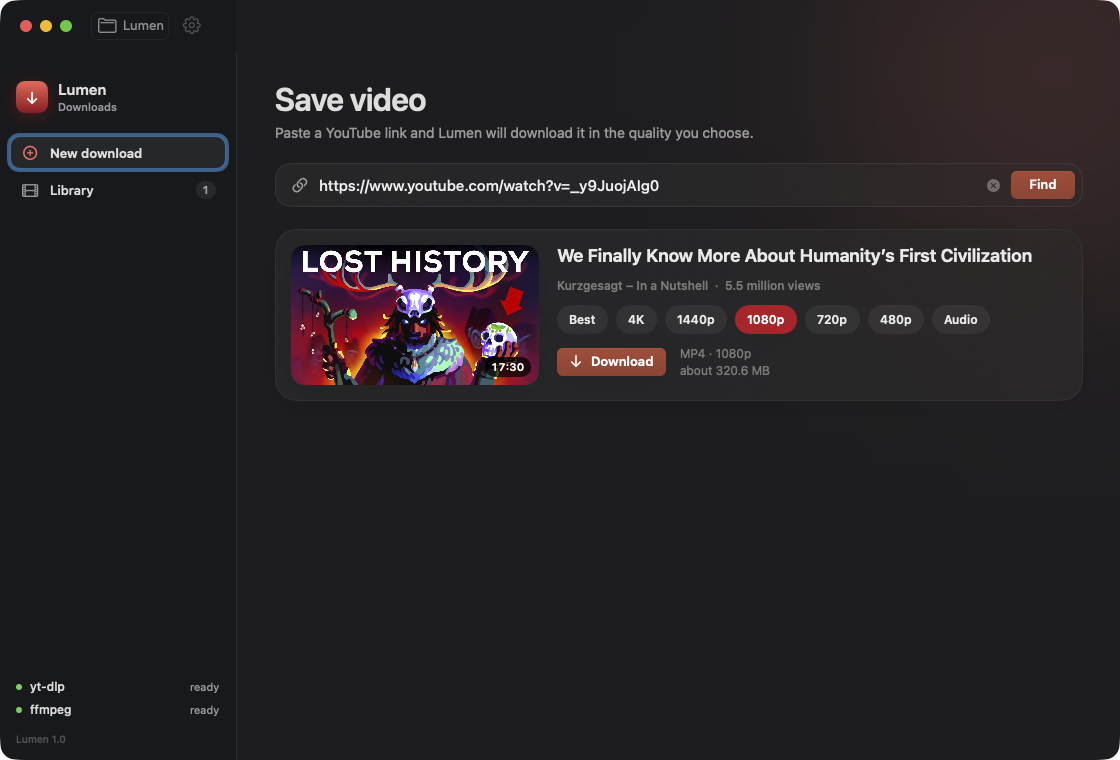
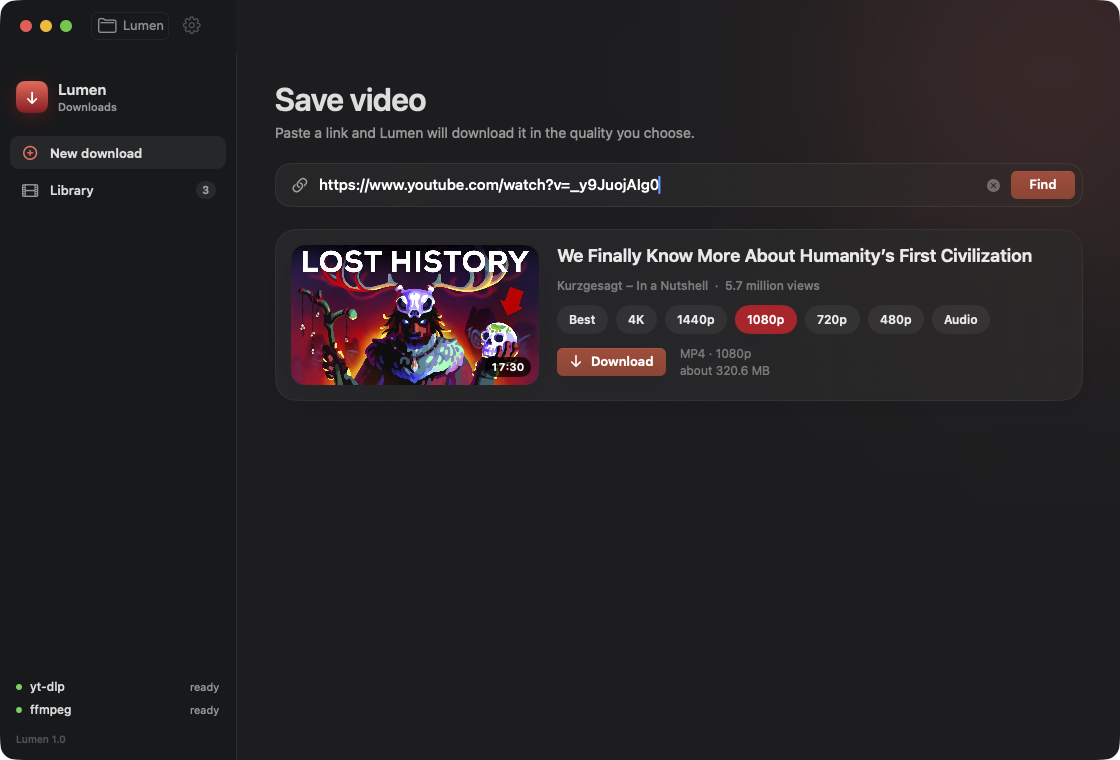
added more platforms for downloads

diff --git a/Tests/LumenCoreTests/CoreTests.swift b/Tests/LumenCoreTests/CoreTests.swift
@@ -3,13 +3,18 @@ import Testing
 @testable import LumenCore
 
 @Test func acceptsWatchShortsAndShareText() {
-    #expect(YouTubeLink.parse("https://www.youtube.com/watch?v=dQw4w9WgXcQ") != nil)
-    #expect(YouTubeLink.parse("https://youtu.be/dQw4w9WgXcQ") != nil)
-    #expect(YouTubeLink.parse("https://www.youtube.com/shorts/abcdefghijk") != nil)
-    #expect(YouTubeLink.parse("смотри https://youtu.be/abcdefghijk, пожалуйста") != nil)
-    #expect(YouTubeLink.parse("https://vimeo.com/123") == nil)
-    #expect(YouTubeLink.parse("https://www.youtube.com/feed/subscriptions") == nil)
-    #expect(YouTubeLink.parse("просто текст") == nil)
+    #expect(MediaLink.parse("https://www.youtube.com/watch?v=dQw4w9WgXcQ") != nil)
+    #expect(MediaLink.parse("https://youtu.be/dQw4w9WgXcQ") != nil)
+    #expect(MediaLink.parse("https://www.youtube.com/shorts/abcdefghijk") != nil)
+    #expect(MediaLink.parse("смотри https://youtu.be/abcdefghijk, пожалуйста") != nil)
+    #expect(MediaLink.parse("https://www.youtube.com/watch?v=dQw4w9WgXcQ&list=PLxxxx") != nil)
+    #expect(MediaLink.parse("https://vimeo.com/123") != nil)
+    #expect(MediaLink.parse("vimeo.com/123") != nil)
+    #expect(MediaLink.parse("смотри https://soundcloud.com/artist/track, пожалуйста") != nil)
+    #expect(MediaLink.parse("https://www.youtube.com/feed/subscriptions") == nil)
+    #expect(MediaLink.parse("https://www.youtube.com/playlist?list=PLxxxx") == nil)
+    #expect(MediaLink.parse("https://vimeo.com") == nil)
+    #expect(MediaLink.parse("просто текст") == nil)
 }
 
 @Test func parsesProgressAndFinalPath() {
@@ -47,10 +52,24 @@ import Testing
             StreamFormat(height: nil, vcodec: "none", acodec: "mp4a.40.2", ext: "m4a", size: 300_000, tbr: 128)
         ]
     )
-    #expect(details.qualities(hasFFmpeg: true) == [.best, .p1080, .p720, .p480, .audio])
+    #expect(details.qualities(hasFFmpeg: true) == [.best, .p1080, .p720, .audio])
     #expect(details.qualities(hasFFmpeg: false) == [.best, .audio])
     #expect(details.estimate(for: .p1080) == 5_300_000)
     #expect(details.estimate(for: .audio) == 300_000)
+
+    let fourK = VideoDetails(
+        id: "abc",
+        title: "4K",
+        channel: nil,
+        thumbnail: nil,
+        duration: nil,
+        viewCount: nil,
+        formats: [
+            StreamFormat(height: 2160, vcodec: "av01", acodec: "none", ext: "mp4", size: nil, tbr: nil),
+            StreamFormat(height: 360, vcodec: "avc1", acodec: "none", ext: "mp4", size: nil, tbr: nil)
+        ]
+    )
+    #expect(fourK.qualities(hasFFmpeg: true) == [.best, .p2160, .audio])
 }
 
 @Test func asksForTheSelectedResolution() {
@@ -60,7 +79,10 @@ import Testing
 
     let fullHD = FormatSelection.arguments(for: .p1080, hasFFmpeg: true).joined(separator: " ")
     #expect(fullHD.contains("bv*[height<=1080][height>=1040][vcodec^=avc1]"))
+    #expect(fullHD.contains("b[height<=1080][height>=1040]"))
     #expect(!fullHD.contains("height<=2160"))
+    let selector = FormatSelection.arguments(for: .p1080, hasFFmpeg: true)[1]
+    #expect(selector.split(separator: "/").last != "b")
 
     #expect(FormatSelection.outputName(for: .p2160).contains("%(height)sp"))
     #expect(FormatSelection.outputName(for: .p1080) != FormatSelection.outputName(for: .audio))

diff --git a/Sources/LumenCore/MediaLink.swift b/Sources/LumenCore/MediaLink.swift
@@ -1,22 +1,40 @@
 import Foundation
 
-public enum YouTubeLink {
+public enum MediaLink {
     public static func parse(_ raw: String) -> URL? {
         let trimmed = raw.trimmingCharacters(in: .whitespacesAndNewlines)
         guard !trimmed.isEmpty else { return nil }
 
         let candidate = extract(from: trimmed)
         guard let components = URLComponents(string: candidate),
-              let host = components.host?.lowercased() else {
+              let scheme = components.scheme?.lowercased(),
+              scheme == "http" || scheme == "https",
+              let host = components.host?.lowercased(),
+              host.contains(".") else {
             return nil
         }
 
-        let hostOK = host == "youtu.be"
+        if isYouTube(host) {
+            return youtubeVideo(components, host: host)
+        }
+
+        let path = components.path
+        let query = components.query ?? ""
+        guard path.count > 1 || !query.isEmpty else { return nil }
+        return components.url
+    }
+
+    private static func isYouTube(_ host: String) -> Bool {
+        host == "youtu.be"
+            || host.hasSuffix(".youtu.be")
             || host == "youtube.com"
             || host.hasSuffix(".youtube.com")
             || host.hasSuffix(".youtube-nocookie.com")
-        guard hostOK else { return nil }
+    }
 
+    /// A YouTube playlist or channel page is not one video. Other sites are left to yt-dlp,
+    /// which is always called with `--no-playlist`.
+    private static func youtubeVideo(_ components: URLComponents, host: String) -> URL? {
         if host == "youtu.be" || host.hasSuffix(".youtu.be") {
             let id = components.path.trimmingCharacters(in: CharacterSet(charactersIn: "/"))
             guard !id.isEmpty, id != "playlist" else { return nil }
@@ -30,8 +48,8 @@ public enum YouTubeLink {
             || path.contains("/live/")
             || path.contains("/embed/")
             || path.contains("/v/")
-        guard hasVideo, let url = components.url else { return nil }
-        return url
+        guard hasVideo else { return nil }
+        return components.url
     }
 
     private static func extract(from raw: String) -> String {
@@ -39,8 +57,8 @@ public enum YouTubeLink {
         let slice: String
         if let match = raw.firstMatch(of: pattern) {
             slice = String(match.output)
-        } else if raw.contains("youtube.com") || raw.contains("youtu.be") {
-            slice = raw.hasPrefix("http") ? raw : "https://\(raw)"
+        } else if !raw.contains(where: \.isWhitespace), raw.contains(".") {
+            slice = raw.hasPrefix("http://") || raw.hasPrefix("https://") ? raw : "https://\(raw)"
         } else {
             slice = raw
         }

diff --git a/Sources/LumenCore/Models.swift b/Sources/LumenCore/Models.swift
@@ -21,6 +21,19 @@ public enum Quality: String, CaseIterable, Identifiable, Hashable, Codable, Send
         case .p480: 480
         }
     }
+
+    /// Maps a real stream height onto one of the buttons. Heights the app has no button for,
+    /// such as 360p, stay on Best.
+    public static func tier(matching height: Int) -> Quality? {
+        switch height {
+        case 2000...: .p2160
+        case 1400..<2000: .p1440
+        case 1000..<1400: .p1080
+        case 700..<1000: .p720
+        case 400..<700: .p480
+        default: nil
+        }
+    }
 }
 
 public struct StreamFormat: Equatable, Sendable {
@@ -86,16 +99,12 @@ public struct VideoDetails: Equatable, Sendable {
     public func qualities(hasFFmpeg: Bool) -> [Quality] {
         var list: [Quality] = [.best]
         if hasFFmpeg {
-            let maxHeight = maxVideoHeight
-            if maxHeight == 0 {
-                list.append(contentsOf: [.p1080, .p720])
-            } else {
-                for tier in [Quality.p2160, .p1440, .p1080, .p720, .p480] {
-                    guard let ceiling = tier.ceiling else { continue }
-                    if maxHeight >= ceiling - 20 {
-                        list.append(tier)
-                    }
-                }
+            let present = Set(formats.compactMap { format -> Quality? in
+                guard format.isVideo, let height = format.height else { return nil }
+                return Quality.tier(matching: height)
+            })
+            for tier in [Quality.p2160, .p1440, .p1080, .p720, .p480] where present.contains(tier) {
+                list.append(tier)
             }
         }
         list.append(.audio)
@@ -205,6 +214,7 @@ enum FormatSelection {
             let height = quality.ceiling ?? 1080
             let floor = max(height - 40, 1)
             let tier = "bv*[height<=\(height)][height>=\(floor)]"
+            let single = "b[height<=\(height)][height>=\(floor)]"
             return [
                 "\(tier)[vcodec^=avc1]+ba[acodec^=mp4a]",
                 "\(tier)[vcodec^=avc1]+ba",
@@ -213,9 +223,9 @@ enum FormatSelection {
                 "\(tier)[vcodec^=vp09]+ba[acodec^=mp4a]",
                 "\(tier)[vcodec^=vp9]+ba[acodec^=mp4a]",
                 "\(tier)+ba",
+                single,
                 "bv*[height<=\(height)]+ba",
-                "b[height<=\(height)]",
-                "b"
+                "b[height<=\(height)]"
             ].joined(separator: "/")
         }
     }

diff --git a/Sources/LumenCore/Interpret.swift b/Sources/LumenCore/Interpret.swift
@@ -64,7 +64,7 @@ public func humanize(log: [String]) -> String {
         return String(localized: "This is a private video — it can't be downloaded.")
     }
     if lower.contains("sign in") || lower.contains("confirm your age") || lower.contains("login required") {
-        return String(localized: "YouTube is asking you to sign in. This video can't be downloaded that way.")
+        return String(localized: "The site is asking you to sign in. This video can't be downloaded that way.")
     }
     if lower.contains("not available in your country") || (lower.contains("geo") && lower.contains("restricted")) {
         return String(localized: "This video isn't available in your region.")
@@ -82,10 +82,10 @@ public func humanize(log: [String]) -> String {
         return String(localized: "This link doesn't look like a video that can be downloaded.")
     }
     if lower.contains("429") || lower.contains("too many requests") {
-        return String(localized: "YouTube is limiting requests for now. Try again in a little while.")
+        return String(localized: "The site is limiting requests for now. Try again in a little while.")
     }
     if lower.contains("offline") || lower.contains("network is unreachable") || lower.contains("failed to establish a new connection") || lower.contains("connection reset") || lower.contains("operation not permitted") || lower.contains("timed out") || lower.contains("timeout") {
-        return String(localized: "No response from YouTube. If LuLu is on, it blocks the downloader and often shows no prompt. Allow this file in LuLu's rules.")
+        return String(localized: "No response from the site. If LuLu is on, it blocks the downloader and often shows no prompt. Allow this file in LuLu's rules.")
     }
     if let line = log.reversed().first(where: { $0.contains("ERROR:") }) {
         let cleaned = line.replacingOccurrences(of: "ERROR:", with: "").trimmingCharacters(in: .whitespaces)

diff --git a/Sources/Lumen/AppModel.swift b/Sources/Lumen/AppModel.swift
@@ -128,14 +128,14 @@ final class AppModel {
 
     func refreshPasteHint() {
         let text = NSPasteboard.general.string(forType: .string) ?? ""
-        pasteHint = YouTubeLink.parse(text) != nil && urlText.trimmingCharacters(in: .whitespacesAndNewlines).isEmpty
+        pasteHint = MediaLink.parse(text) != nil && urlText.trimmingCharacters(in: .whitespacesAndNewlines).isEmpty
     }
 
     func urlDidChange() {
         errorBanner = nil
         debounce?.cancel()
         refreshPasteHint()
-        guard YouTubeLink.parse(urlText) != nil else {
+        guard MediaLink.parse(urlText) != nil else {
             preview = nil
             return
         }
@@ -154,8 +154,8 @@ final class AppModel {
     }
 
     func acceptDrop(_ raw: String) {
-        guard YouTubeLink.parse(raw) != nil else {
-            errorBanner = String(localized: "This isn't a YouTube video link.")
+        guard MediaLink.parse(raw) != nil else {
+            errorBanner = String(localized: "This isn't a link to a video.")
             return
         }
         urlText = raw.trimmingCharacters(in: .whitespacesAndNewlines)
@@ -173,8 +173,8 @@ final class AppModel {
             errorBanner = String(localized: "Install the download tools first.")
             return
         }
-        guard let url = YouTubeLink.parse(urlText) else {
-            errorBanner = String(localized: "Paste a link to a specific YouTube video.")
+        guard let url = MediaLink.parse(urlText) else {
+            errorBanner = String(localized: "Paste a link to a specific video.")
             preview = nil
             return
         }

diff --git a/Sources/Lumen/Views/ComposeView.swift b/Sources/Lumen/Views/ComposeView.swift
@@ -15,7 +15,7 @@ struct ComposeView: View {
                     Text("Save video")
                         .font(.system(size: 32, weight: .semibold))
                         .tracking(-0.6)
-                    Text("Paste a YouTube link and Lumen will download it in the quality you choose.")
+                    Text("Paste a link and Lumen will download it in the quality you choose.")
                         .font(.system(size: 14))
                         .foregroundStyle(.secondary)
                 }
@@ -85,7 +85,7 @@ struct ComposeView: View {
                 .foregroundStyle(.secondary)
                 .symbolEffect(.pulse, isActive: model.isResolving)
 
-            TextField("https://www.youtube.com/watch?v=…", text: $model.urlText)
+            TextField("https://…", text: $model.urlText)
                 .textFieldStyle(.plain)
                 .font(.system(size: 15, weight: .medium))
                 .focused($linkFocused)
@@ -143,7 +143,7 @@ struct ComposeView: View {
             Image(systemName: "info.circle.fill")
                 .foregroundStyle(Theme.accent)
             VStack(alignment: .leading, spacing: 6) {
-                Text("Without ffmpeg you get one ready-made file, usually up to 720p. 1080p and 4K need ffmpeg.")
+                Text("Without ffmpeg you get one ready-made file. Separate video and audio, including 1080p and 4K, need ffmpeg.")
                     .font(.system(size: 12))
                     .foregroundStyle(.secondary)
                     .fixedSize(horizontal: false, vertical: true)

diff --git a/Sources/LumenCore/Engine.swift b/Sources/LumenCore/Engine.swift
@@ -123,11 +123,11 @@ public struct Engine: Sendable {
             }
             group.addTask {
                 try await Task.sleep(for: .seconds(40))
-                throw EngineFailure(message: String(localized: "No response from YouTube. If LuLu is on, it blocks the downloader and often shows no prompt. Allow this file in LuLu's rules."))
+                throw EngineFailure(message: String(localized: "No response from the site. If LuLu is on, it blocks the downloader and often shows no prompt. Allow this file in LuLu's rules."))
             }
             do {
                 guard let value = try await group.next() else {
-                    throw EngineFailure(message: String(localized: "No response from YouTube. If LuLu is on, it blocks the downloader and often shows no prompt. Allow this file in LuLu's rules."))
+                    throw EngineFailure(message: String(localized: "No response from the site. If LuLu is on, it blocks the downloader and often shows no prompt. Allow this file in LuLu's rules."))
                 }
                 group.cancelAll()
                 while !group.isEmpty {

diff --git a/README.md b/README.md
@@ -5,20 +5,20 @@
 <h1 align="center">Lumen</h1>
 
 <p align="center">
-  A native macOS app for saving YouTube videos.<br>
+  A native macOS app for saving videos.<br>
   Paste a link, pick a quality, and the file lands in a folder on your Mac.
 </p>
 
 <p align="center">Follows the system language: English, German, Spanish, French, Japanese, Portuguese, and Russian.</p>
 
 <p align="center">
-  <img src="docs/screenshots/download.png" width="780" alt="A YouTube video ready to download, with quality choices from Best to Audio">
+  <img src="docs/screenshots/download.png" width="780" alt="A video ready to download, with the qualities that video actually offers">
 </p>
 
 ## Features
 
-- Accepts normal watch links, `youtu.be`, Shorts, live streams, and embeds. A playlist page without a video is ignored.
-- Quality choices: Best, 4K, 1440p, 1080p, 720p, 480p, and audio only. Each quality is saved as its own file, so a later download in another quality does not replace the one you already have.
+- Accepts a link to a single video from the sites [yt-dlp](https://github.com/yt-dlp/yt-dlp) supports, including YouTube watch links, `youtu.be`, Shorts, live streams, and embeds. A playlist or channel page is not downloaded as a whole.
+- Quality choices follow that video: Best, the resolutions it actually offers, and audio only. On YouTube that can be 4K, 1440p, 1080p, 720p, or 480p. Each quality is saved as its own file, so a later download in another quality does not replace the one you already have.
 - A queue runs two downloads at a time. The rest wait their turn.
 - A library of finished videos, with thumbnails, file size, and the quality on disk. Open a file, reveal it in Finder, or move it to the Trash.
 - Files go to `~/Downloads/Lumen` unless you pick another folder from the toolbar or from Settings.
@@ -26,7 +26,7 @@
 - Closing the window leaves Lumen in the Dock. Clicking the icon opens the window again.
 
 <p align="center">
-  <img src="docs/screenshots/library.png" width="780" alt="Library with a downloaded 1080p video">
+  <img src="docs/screenshots/library.png" width="780" alt="Library of saved videos">
 </p>
 
 ## Requirements
@@ -58,8 +58,8 @@ Lumen does not download videos itself. It uses three free tools:
 
 | Tool | Role |
 | --- | --- |
-| **yt-dlp** | Reads the YouTube page and downloads the streams. |
-| **ffmpeg** | Merges separate video and audio into one MP4. 1080p, 1440p, and 4K need it. Without it, YouTube usually offers a single file up to 720p. |
+| **yt-dlp** | Reads the page and downloads the streams. |
+| **ffmpeg** | Merges separate video and audio into one MP4. That includes 1080p and 4K when the site splits them. Without ffmpeg, Lumen saves one ready-made file. |
 | **ffprobe** | Looks at the finished file so yt-dlp can confirm the streams. Downloads still work if it is missing. |
 
 On first launch, **Install** downloads anything that is missing:
@@ -69,7 +69,9 @@ On first launch, **Install** downloads anything that is missing:
 
 Lumen keeps its own copies in `~/Library/Application Support/Lumen/bin`. Settings can install what is missing, replace Lumen's copies with fresh ones, or remove them. ffmpeg installed with Homebrew is left alone.
 
-YouTube changes often enough that an old yt-dlp eventually stops working. Update it from Settings when a video that used to download starts failing. ffmpeg rarely needs an update.
+Sites change often enough that an old yt-dlp eventually stops working. Update it from Settings when a video that used to download starts failing. ffmpeg rarely needs an update.
+
+Some pages still will not download. yt-dlp marks a few sites as broken, and that list moves. A site that asks you to sign in needs browser cookies, which Lumen does not send. Protected streams, such as subscription movie services, are out of reach. A playlist or channel link is limited to one item, not the whole collection.
 
 <p align="center">
   <img src="docs/screenshots/settings.png" width="560" alt="Settings, with the download folder and component actions">
@@ -84,7 +86,7 @@ yt-dlp connects to the network on its own. A firewall such as LuLu asks for perm
 ```
 Sources/Lumen/          SwiftUI interface
 Sources/LumenCore/      Link parsing, yt-dlp, and ffmpeg
-Resources/              App metadata, icon, English and Russian strings
+Resources/              App metadata, icon, and localizations
 scripts/build.sh        Release build
 Tests/LumenCoreTests/   Engine tests
 ```
